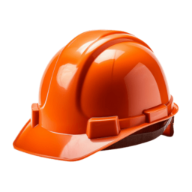
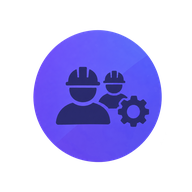
изменение иконки

diff --git a/NaryadAi/Components/Pages/Login/Login.razor.css b/NaryadAi/Components/Pages/Login/Login.razor.css
@@ -42,20 +42,16 @@
     margin-bottom: 26px;
 }
 
-.logo-circle {
-    width: 70px;
-    height: 70px;
-    margin: 0 auto 12px;
-    display: flex;
-    align-items: center;
-    justify-content: center;
-    border-radius: 50%;
-    background: linear-gradient(145deg, #6552e6, #4d3bd1);
-    box-shadow: 0 10px 24px rgba(79, 62, 207, 0.24);
+.login-logo {
+    width: 150px;
+    height: 150px;
+    object-fit: contain;
+    display: block;
+    margin: 0 auto 8px;
 }
 
 .app-title {
-    margin: 0;
+    margin: 4px 0 0;
     color: #202124;
     font-size: 29px;
     line-height: 1.1;
@@ -230,12 +226,6 @@
         padding: 16px;
     }
 
-    .logo-circle {
-        width: 56px;
-        height: 56px;
-        margin-bottom: 8px;
-    }
-
     .app-title {
         font-size: 24px;
     }
@@ -285,5 +275,23 @@
 
     .num-btn {
         height: 60px;
+    }
+}
+
+.app-brand {
+    display: flex;
+    align-items: center;
+    gap: 8px;
+}
+
+.app-brand-logo {
+    width: 34px;
+    height: 34px;
+    object-fit: contain;
+}
+@media (max-width: 600px) {
+    .login-logo {
+        width: 90px;
+        height: 90px;
     }
 }

diff --git a/NaryadAi/Components/Layout/MainLayout.razor.css b/NaryadAi/Components/Layout/MainLayout.razor.css
@@ -96,3 +96,28 @@ main {
         right: 0.75rem;
         top: 0.5rem;
     }
+.app-brand {
+    display: flex;
+    align-items: center;
+    gap: 8px;
+}
+
+.app-brand-logo {
+    width: 50px;
+    height: 50px;
+    object-fit: contain;
+    display: block;
+}
+@media (max-width: 600px) {
+    .app-brand-logo {
+        width: 50px;
+        height: 50px;
+    }
+}
+.drawer-logo {
+    width: 52px;
+    height: 52px;
+    object-fit: contain;
+    display: block;
+    margin-bottom: 8px;
+}
